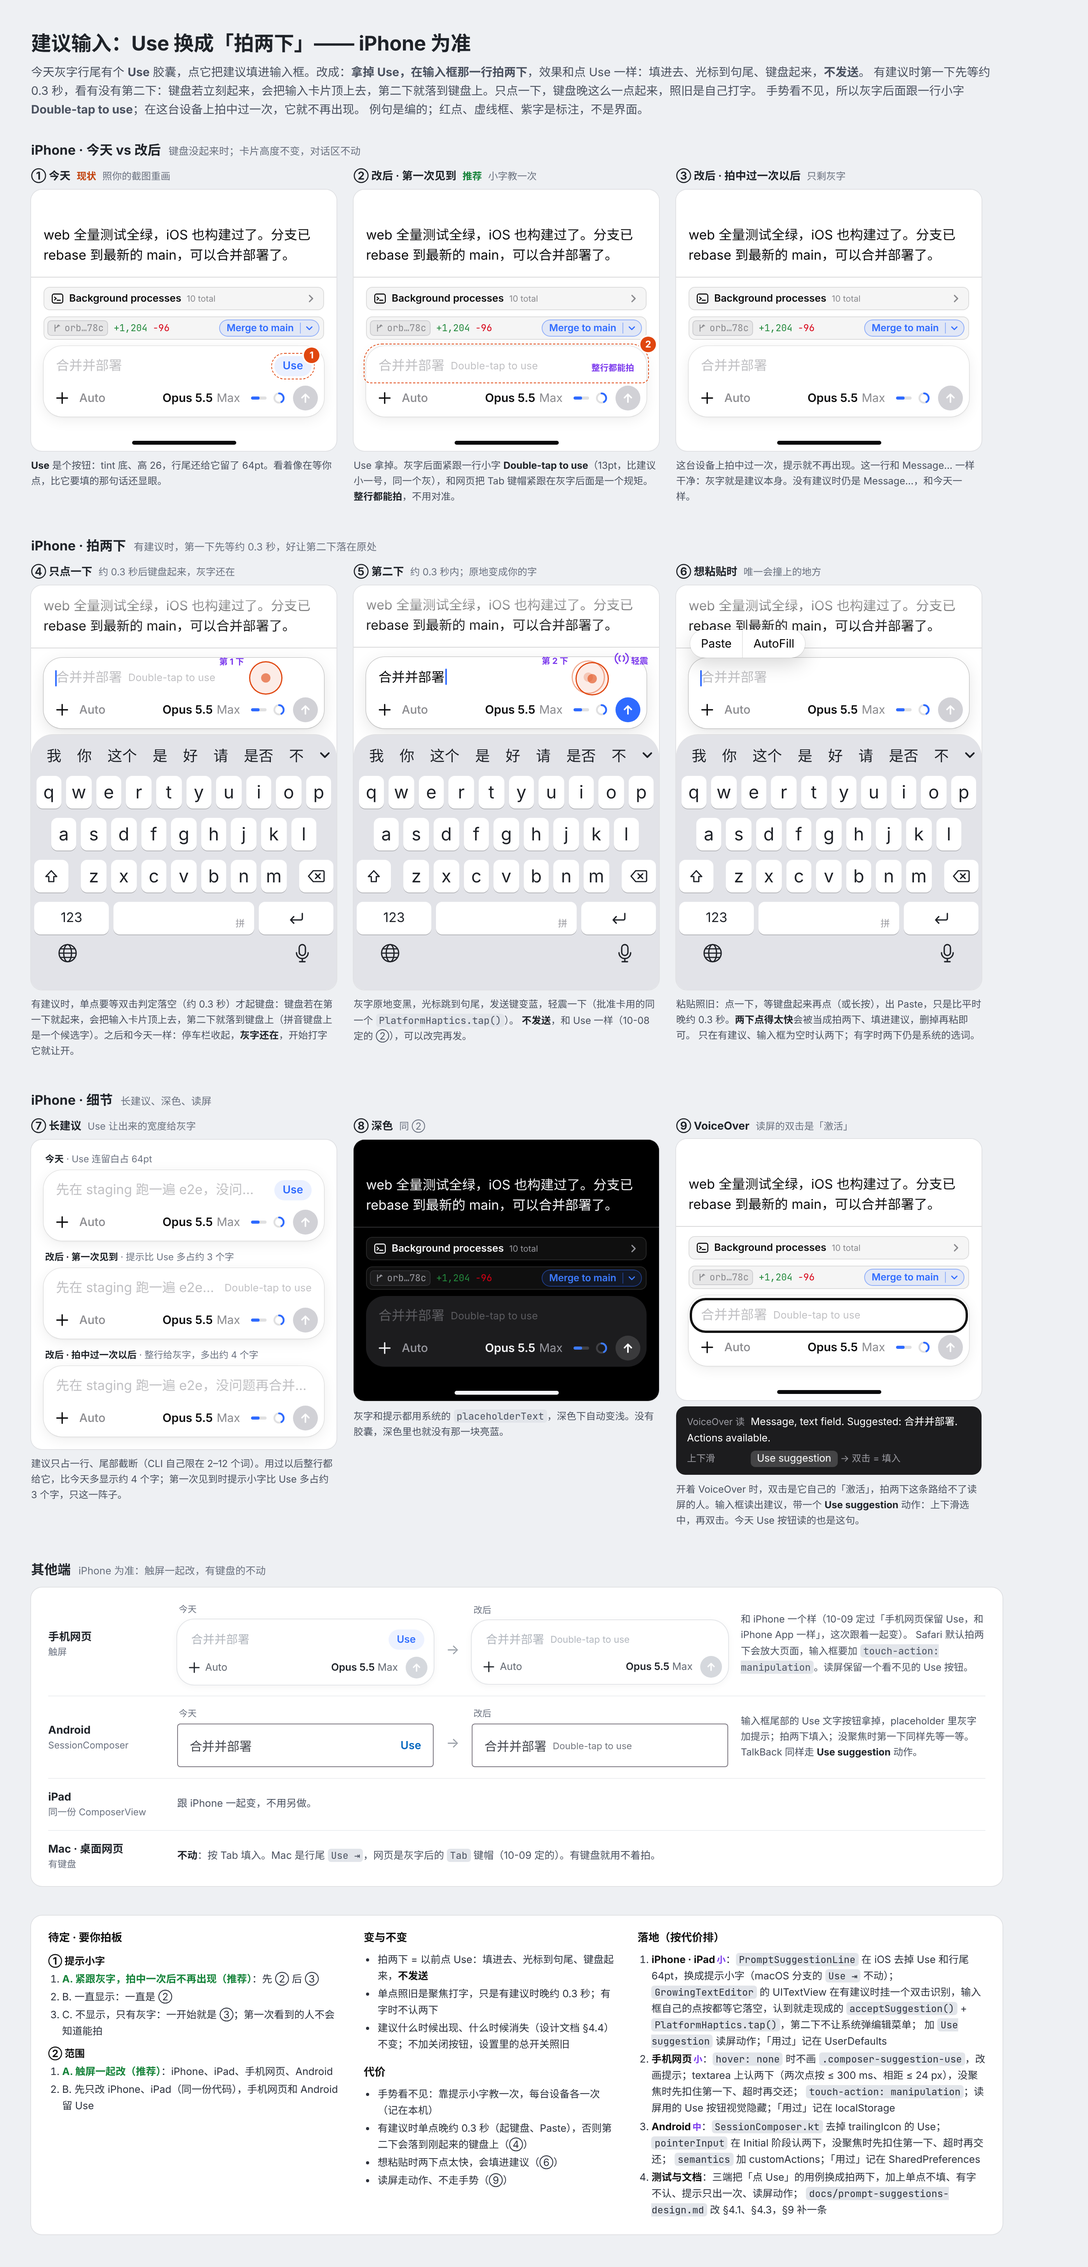
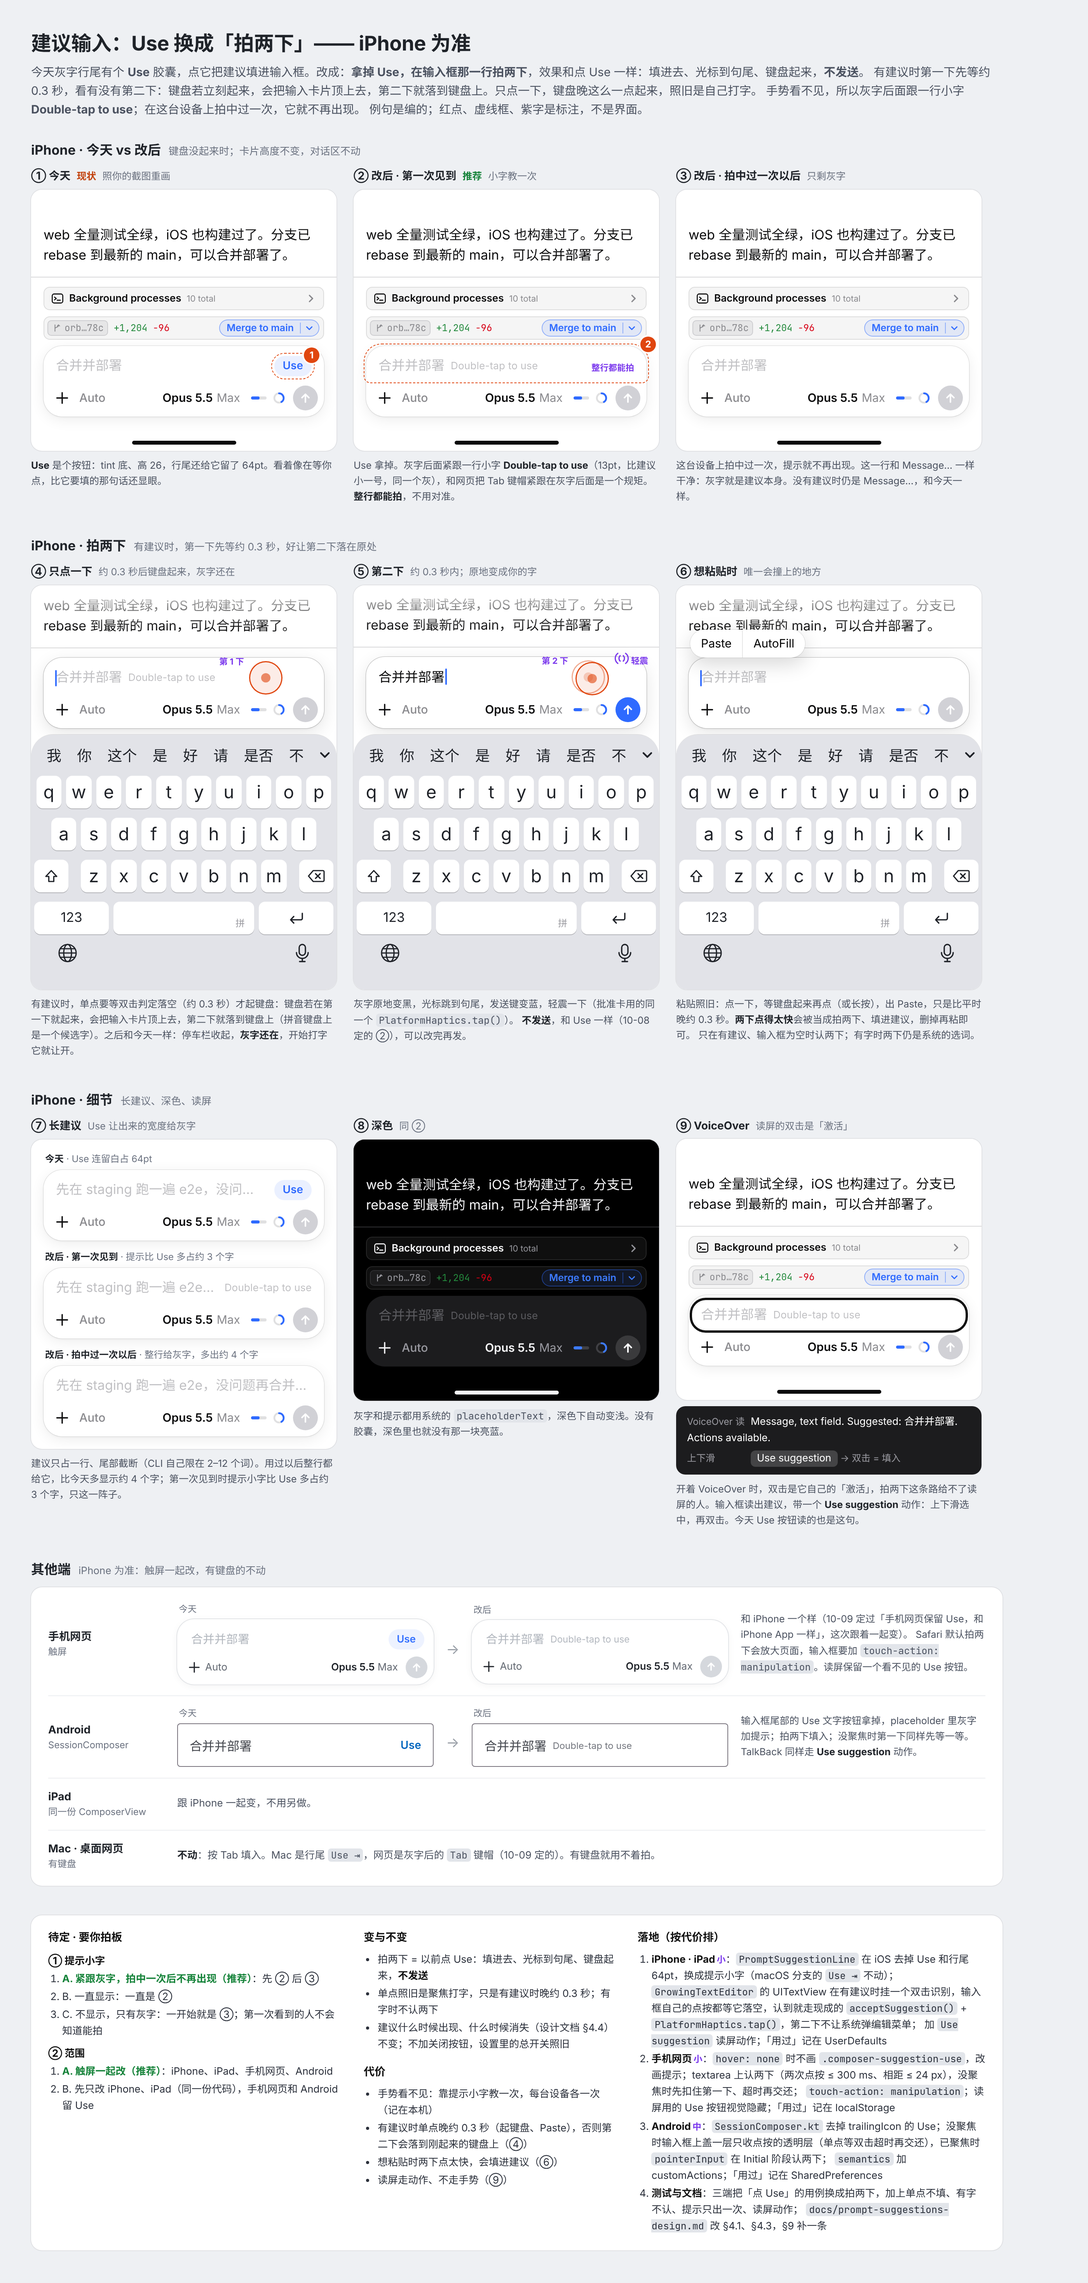
fix(android): hold an unfocused field's first tap under a tap catcher
Consuming the first tap in the Initial pass did not keep focus off the
field: the text field's own selection gesture starts on the second
press's down whatever its consumption, and that focuses it. While a
suggestion is offered and the field is not focused, a transparent
catcher now lies over it (SuggestionTaps, Compose's detectTapGestures):
a double-tap takes the guess, and a lone tap or a long press is handed
on as focus once the double-tap timeout has passed. A focused field
keeps its own taps; Modifier.doubleTapToUse only keeps the second lift
from it.

The Robolectric test starts the field unfocused behind a focusable
placeholder, since Robolectric gives a window's first focusable focus
by itself. Design doc §4.3 and §7 and the board's landing notes follow.

diff --git a/src/android/app/src/main/kotlin/io/orbitd/android/composer/SessionComposer.kt b/src/android/app/src/main/kotlin/io/orbitd/android/composer/SessionComposer.kt
@@ -9,6 +9,7 @@ import androidx.activity.result.contract.ActivityResultContracts
 import androidx.compose.foundation.*
 import androidx.compose.foundation.gestures.awaitEachGesture
 import androidx.compose.foundation.gestures.awaitFirstDown
+import androidx.compose.foundation.gestures.detectTapGestures
 import androidx.compose.foundation.gestures.waitForUpOrCancellation
 import androidx.compose.foundation.layout.*
 import androidx.compose.foundation.shape.RoundedCornerShape
@@ -156,23 +157,25 @@ fun SessionComposer(app: OrbitApplication, handle: SessionHandle, sessionId: Str
                     state.failures[att.id]?.let { Text(it, color = MaterialTheme.colorScheme.error, style = MaterialTheme.typography.bodySmall) }
                 }
                 ComposerUsage(model, state, effective, session)
-            OutlinedTextField(field, onValueChange = { field = it; model.edit(it.text, it.selection.start, it.selection.end) },
-                modifier = Modifier.fillMaxWidth().focusRequester(focus).onFocusChanged { inputFocused = it.isFocused; inputFocusChanged(it.isFocused) }
-                    .testTag("composer-input")
-                    .doubleTapToUse(suggestion != null, inputFocused, focusField, useSuggestion)
-                    // TalkBack's own double-tap is "activate": it takes the guess with this action.
-                    .semantics { if (suggestion != null) customActions = listOf(CustomAccessibilityAction("Use suggestion") { useSuggestion(); true }) }
-                    .onPreviewKeyEvent {
-                    if (it.type == KeyEventType.KeyDown && it.key == Key.Enter && (it.isCtrlPressed || it.isMetaPressed) && field.composition == null && usable) {
-                        send(); true
-                    } else false
-                }, enabled = state.loaded,
-                placeholder = {
-                    if (suggestion != null) SuggestionPlaceholder(suggestion, showsHint = !suggestionTapLearned)
-                    else Text("Message…", maxLines = 1, overflow = TextOverflow.Ellipsis)
-                },
-                minLines = 1, maxLines = 4,
-                keyboardOptions = KeyboardOptions(imeAction = ImeAction.Default))
+            SuggestionTaps(suggestion != null, inputFocused, focusField, useSuggestion) { taps ->
+                OutlinedTextField(field, onValueChange = { field = it; model.edit(it.text, it.selection.start, it.selection.end) },
+                    modifier = Modifier.fillMaxWidth().focusRequester(focus).onFocusChanged { inputFocused = it.isFocused; inputFocusChanged(it.isFocused) }
+                        .testTag("composer-input")
+                        .then(taps)
+                        // TalkBack's own double-tap is "activate": it takes the guess with this action.
+                        .semantics { if (suggestion != null) customActions = listOf(CustomAccessibilityAction("Use suggestion") { useSuggestion(); true }) }
+                        .onPreviewKeyEvent {
+                            if (it.type == KeyEventType.KeyDown && it.key == Key.Enter && (it.isCtrlPressed || it.isMetaPressed) && field.composition == null && usable) {
+                                send(); true
+                            } else false
+                        }, enabled = state.loaded,
+                    placeholder = {
+                        if (suggestion != null) SuggestionPlaceholder(suggestion, showsHint = !suggestionTapLearned)
+                        else Text("Message…", maxLines = 1, overflow = TextOverflow.Ellipsis)
+                    },
+                    minLines = 1, maxLines = 4,
+                    keyboardOptions = KeyboardOptions(imeAction = ImeAction.Default))
+            }
             }
             Row(Modifier.fillMaxWidth(), verticalAlignment = androidx.compose.ui.Alignment.CenterVertically) {
                 Box {
@@ -261,37 +264,42 @@ internal fun SuggestionPlaceholder(suggestion: String, showsHint: Boolean) = Row
         style = MaterialTheme.typography.bodySmall, maxLines = 1)
 }
 
-/** Two taps on the field within the platform's double-tap timeout run [use]. While the field is not [focused] its first tap is held
- * back from it: the keyboard that tap would raise lifts the composer, and the second tap would land on the keyboard instead. It is
- * handed on as [focus] once the timeout passes with no second tap. A focused field keeps its first tap. Either way the second tap's
- * lift is kept from the field, so it neither drops the cursor into the words it just received nor opens the text toolbar. Watched in
- * the Initial pass, ahead of the field's own gestures. */
-internal fun Modifier.doubleTapToUse(enabled: Boolean, focused: Boolean, focus: () -> Unit, use: () -> Unit): Modifier =
-    if (!enabled) this else composed {
-        val latestFocused by rememberUpdatedState(focused)
-        val latestFocus by rememberUpdatedState(focus)
-        val latestUse by rememberUpdatedState(use)
-        pointerInput(Unit) {
-            awaitEachGesture {
+/** The field, taking the engine's guess with a double-tap (docs/prompt-suggestions-design.md §4.3). While a guess is [offered] and the
+ * field is not [focused], a catcher lies over it: the keyboard a first tap would raise lifts the composer, and the second tap would land
+ * on the keyboard instead. So a lone tap there (or a long press) is held until the double-tap timeout has passed and handed on as
+ * [focus]. A focused field keeps its own taps, and only the second of two is kept from it ([doubleTapToUse]). */
+@Composable
+internal fun SuggestionTaps(offered: Boolean, focused: Boolean, focus: () -> Unit, use: () -> Unit, field: @Composable (Modifier) -> Unit) {
+    val latestFocus by rememberUpdatedState(focus)
+    val latestUse by rememberUpdatedState(use)
+    Box {
+        field(Modifier.doubleTapToUse(offered && focused, use))
+        if (offered && !focused) Box(Modifier.matchParentSize().testTag("composer-suggestion-taps").pointerInput(Unit) {
+            detectTapGestures(onDoubleTap = { latestUse() }, onLongPress = { latestFocus() }, onTap = { latestFocus() })
+        })
+    }
+}
+
+/** Two taps on a field within the double-tap timeout run [use]. The first is the field's own; the second's lift is kept from it, so it
+ * neither drops the cursor into the words it just received nor opens the text toolbar. Watched in the Initial pass, ahead of the field's
+ * own gestures. */
+internal fun Modifier.doubleTapToUse(enabled: Boolean, use: () -> Unit): Modifier = if (!enabled) this else composed {
+    val latestUse by rememberUpdatedState(use)
+    pointerInput(Unit) {
+        awaitEachGesture {
+            awaitFirstDown(requireUnconsumed = false, pass = PointerEventPass.Initial)
+            waitForUpOrCancellation(PointerEventPass.Initial) ?: return@awaitEachGesture
+            withTimeoutOrNull(viewConfiguration.doubleTapTimeoutMillis) {
                 awaitFirstDown(requireUnconsumed = false, pass = PointerEventPass.Initial)
-                val first = waitForUpOrCancellation(PointerEventPass.Initial) ?: return@awaitEachGesture
-                val held = !latestFocused
-                if (held) first.consume()
-                val second = withTimeoutOrNull(viewConfiguration.doubleTapTimeoutMillis) {
-                    awaitFirstDown(requireUnconsumed = false, pass = PointerEventPass.Initial)
-                }
-                val lift = if (second == null) null else withTimeoutOrNull(viewConfiguration.longPressTimeoutMillis) {
-                    waitForUpOrCancellation(PointerEventPass.Initial)
-                }
-                if (lift == null) {
-                    if (held) latestFocus()
-                    return@awaitEachGesture
-                }
-                lift.consume()
-                latestUse()
-            }
+            } ?: return@awaitEachGesture
+            val lift = withTimeoutOrNull(viewConfiguration.longPressTimeoutMillis) {
+                waitForUpOrCancellation(PointerEventPass.Initial)
+            } ?: return@awaitEachGesture
+            lift.consume()
+            latestUse()
         }
     }
+}
 
 /** The model chip (iOS `modelChipLabel`): the model's name, and — on a task run still on the model smart selection picked — a ✦ before
  * it on a light tint of the accent. Named aloud "Model X, effort Y", and ", picked by smart selection" while it carries the ✦. */

diff --git a/src/android/app/src/test/kotlin/io/orbitd/android/composer/SuggestionDoubleTapTest.kt b/src/android/app/src/test/kotlin/io/orbitd/android/composer/SuggestionDoubleTapTest.kt
@@ -1,6 +1,10 @@
 package io.orbitd.android.composer
 
 import androidx.activity.compose.setContent
+import androidx.compose.foundation.focusable
+import androidx.compose.foundation.layout.Box
+import androidx.compose.foundation.layout.Column
+import androidx.compose.foundation.layout.size
 import androidx.compose.material3.OutlinedTextField
 import androidx.compose.runtime.*
 import androidx.compose.ui.Modifier
@@ -10,6 +14,7 @@ import androidx.compose.ui.focus.onFocusChanged
 import androidx.compose.ui.platform.testTag
 import androidx.compose.ui.test.*
 import androidx.compose.ui.test.junit4.createAndroidComposeRule
+import androidx.compose.ui.unit.dp
 import io.orbitd.android.MainActivity
 import io.orbitd.android.TestOrbitApplication
 import io.orbitd.android.ui.OrbitTheme
@@ -46,13 +51,21 @@ class SuggestionDoubleTapTest {
     private var focusesHandedOn = 0
     private val focus = FocusRequester()
 
-    private fun field(enabled: Boolean = true) {
+    /** The composer's arrangement: the field inside [SuggestionTaps], whose own focus handler only counts here. A focusable ahead of
+     * it takes the focus Robolectric hands a window's first focusable by itself, so the field starts unfocused, as on a phone in
+     * touch mode. */
+    private fun field(offered: Boolean = true) {
         compose.runOnUiThread { compose.activity.setContent { OrbitTheme(darkTheme = false) {
-            OutlinedTextField(value, { value = it }, Modifier.testTag("field").focusRequester(focus)
-                .onFocusChanged { focused = it.isFocused }
-                .doubleTapToUse(enabled, focused, { focusesHandedOn++ }, { uses++; value = "run the tests" }))
+            Column {
+                Box(Modifier.size(1.dp).focusable())
+                SuggestionTaps(offered, focused, { focusesHandedOn++ }, { uses++; value = "run the tests" }) { taps ->
+                    OutlinedTextField(value, { value = it }, Modifier.testTag("field").focusRequester(focus)
+                        .onFocusChanged { focused = it.isFocused }.then(taps))
+                }
+            }
         } } }
         compose.waitForIdle()
+        compose.onNodeWithTag("field").assertIsNotFocused()
     }
 
     @Test fun aDoubleTapOnTheIdleFieldTakesItWithoutTheFieldEverTakingTheFirstTap() {
@@ -63,6 +76,7 @@ class SuggestionDoubleTapTest {
         assertEquals("run the tests", value)
         assertEquals("the first tap was held, so nothing was handed on", 0, focusesHandedOn)
         compose.onNodeWithTag("field").assertIsNotFocused()
+        compose.onNodeWithTag("composer-suggestion-taps").assertExists()
     }
 
     @Test fun aSingleTapOnTheIdleFieldIsHandedOnOnceTheDoubleTapTimeoutPasses() {
@@ -85,6 +99,7 @@ class SuggestionDoubleTapTest {
         compose.runOnUiThread { focus.requestFocus() }
         compose.waitForIdle()
         compose.onNodeWithTag("field").assertIsFocused()
+        compose.onAllNodesWithTag("composer-suggestion-taps").assertCountEquals(0)
         compose.onNodeWithTag("field").performTouchInput { doubleClick() }
         compose.waitForIdle()
         assertEquals(1, uses)
@@ -93,7 +108,7 @@ class SuggestionDoubleTapTest {
     }
 
     @Test fun withNoGuessTheFieldsTapsAreItsOwn() {
-        field(enabled = false)
+        field(offered = false)
         compose.onNodeWithTag("field").performTouchInput { doubleClick() }
         compose.waitForIdle()
         assertEquals(0, uses)

diff --git a/docs/mocks/prompt-suggestion-double-tap/01-board.html b/docs/mocks/prompt-suggestion-double-tap/01-board.html
@@ -506,7 +506,7 @@
         加 <code>Use suggestion</code> 读屏动作；「用过」记在 UserDefaults</li>
       <li><b>手机网页</b><span class="cost">小</span>：<code>hover: none</code> 时不画 <code>.composer-suggestion-use</code>，改画提示；textarea 上认两下（两次点按 ≤ 300 ms、相距 ≤ 24 px），没聚焦时先扣住第一下、超时再交还；
         <code>touch-action: manipulation</code>；读屏用的 Use 按钮视觉隐藏；「用过」记在 localStorage</li>
-      <li><b>Android</b><span class="cost">中</span>：<code>SessionComposer.kt</code> 去掉 trailingIcon 的 Use；<code>pointerInput</code> 在 Initial 阶段认两下，没聚焦时先扣住第一下、超时再交还；
+      <li><b>Android</b><span class="cost">中</span>：<code>SessionComposer.kt</code> 去掉 trailingIcon 的 Use；没聚焦时输入框上盖一层只收点按的透明层（单点等双击超时再交还），已聚焦时 <code>pointerInput</code> 在 Initial 阶段认两下；
         <code>semantics</code> 加 customActions；「用过」记在 SharedPreferences</li>
       <li><b>测试与文档</b>：三端把「点 Use」的用例换成拍两下，加上单点不填、有字不认、提示只出一次、读屏动作；
         <code>docs/prompt-suggestions-design.md</code> 改 §4.1、§4.3，§9 补一条</li>

diff --git a/docs/prompt-suggestions-design.md b/docs/prompt-suggestions-design.md
@@ -278,9 +278,11 @@ transcript reducer 里加三行，按 seq 顺序回放，结果天然正确：
 - **macOS / iPad**：和 iPhone 是同一个 SwiftUI `ComposerView`。iPad 同 iPhone（拍两下）；macOS 不变：`TextField`
   另接 `.onKeyPress(keys: [.tab])`，行尾是 `Use ⇥` 胶囊。
 - **Android**：`SessionComposer.kt` 的 `OutlinedTextField` 用 placeholder 写灰字（单行截断，后跟提示小字，
-  SharedPreferences `orbit.composer` 记用过），没有 trailingIcon。`Modifier.doubleTapToUse` 认两下：输入框没聚焦时
-  第一下先扣住，超时没有第二下再交还（聚焦、起键盘），已聚焦时第一下照常；第二下的抬起不交给输入框（不落光标、
-  不弹工具条）。TalkBack 走 **Use suggestion** 自定义动作，
+  SharedPreferences `orbit.composer` 记用过），没有 trailingIcon。输入框没聚焦时，上面盖一层只收点按的透明层
+  （`SuggestionTaps`，Compose 自己的 `detectTapGestures`）：拍两下填入，单点（或长按）等双击超时才交还为聚焦、
+  起键盘，理由同 §4.1。没用 Initial 阶段扣住第一下的办法，是因为输入框自己的选字手势不看 consume，第二下的按下
+  就会让它聚焦。已聚焦时去掉这层，第一下照常交给输入框，第二下的抬起不交给它（`Modifier.doubleTapToUse`：
+  不落光标、不弹工具条）。TalkBack 走 **Use suggestion** 自定义动作，
   提示小字不读。推导在 core 的 `Transcript.promptSuggestion`，判断在 `ComposerData.kt` 的 `offeredPromptSuggestion`。
 
 ### 4.4 显示规则
@@ -341,12 +343,12 @@ transcript reducer 里加三行，按 seq 顺序回放，结果天然正确：
 | apiserver | `common/prompt-suggestions-switch.ts`（新）、`queue/queue.service.ts`、`runner-api/runner-api.controller.ts` | §3.1 的规则；领取与重领的 agent 配置 |
 | apiserver | `users/dto.ts`、`users/users.controller.ts` | 账号偏好 `promptSuggestions` |
 | apiserver | `runner-api/session-activity.ts` 及 spec、`common/prompt-suggestions-switch.spec.ts`（新） | 不推进 `lastTurnAt`；规则单测 |
-| web | `lib/promptSuggestion.ts`（新）、`components/WorkspaceView.tsx`、`index.css`、`lib/queries.ts`、`pages/SettingsPage.tsx` | 推导与判断；灰字 + Tab 键帽（触屏 Use）；设置页开关 |
-| web | `lib/promptSuggestion.test.ts`、`components/WorkspaceView.promptSuggestion.test.tsx`（新） | 推导与判断；会话页出现、Use、Tab、打字让位、新消息作废、卡片在等时不出 |
+| web | `lib/promptSuggestion.ts`（新）、`components/WorkspaceView.tsx`、`index.css`、`lib/queries.ts`、`pages/SettingsPage.tsx` | 推导与判断；灰字 + Tab 键帽（触屏拍两下，2026-10-09 前是 Use）；设置页开关 |
+| web | `lib/promptSuggestion.test.ts`、`components/WorkspaceView.promptSuggestion.test.tsx`（新） | 推导与判断；会话页出现、Use（读屏）、拍两下、Tab、打字让位、新消息作废、卡片在等时不出 |
 | OrbitKit | `Models/Enums.swift`、`Transcript/TranscriptReducer.swift`、`App/Composer.swift`、`Models/Preferences.swift`、`App/SettingsHome.swift` | 新事件类型；`TranscriptState.promptSuggestion`（快照兼容）；`ComposerLogic.offeredPromptSuggestion`；偏好与设置行 |
 | OrbitKit | `PromptSuggestionTests.swift`（新）、`SettingsHomeTests.swift`、`SettingsStackWiringTests.swift` | reducer、判断、偏好、ComposerView 接线；设置行 |
-| OrbitApp | `Views/ComposerView.swift`、`Views/SettingsSheet.swift`、`Views/SettingsAdminView.swift` | 灰字 + Use；macOS Tab；iOS 与 macOS 设置开关 |
-| Android | core `Transcript.kt`、app `ComposerData.kt`、`SessionComposer.kt`、`SettingsScreen.kt` + `ic_suggestion.xml`，及两个新测试 | 推导；判断；placeholder + Use；设置开关 |
+| OrbitApp | `Views/ComposerView.swift`、`Views/SettingsSheet.swift`、`Views/SettingsAdminView.swift` | 灰字 + 拍两下（iOS，2026-10-09 前是 Use）；macOS Use ⇥ + Tab；iOS 与 macOS 设置开关 |
+| Android | core `Transcript.kt`、app `ComposerData.kt`、`SessionComposer.kt`、`SettingsScreen.kt` + `ic_suggestion.xml`，及两个新测试 | 推导；判断；placeholder + 拍两下（2026-10-09 前是 Use，新测试 `SuggestionDoubleTapTest`）；设置开关 |
 
 ---
 
